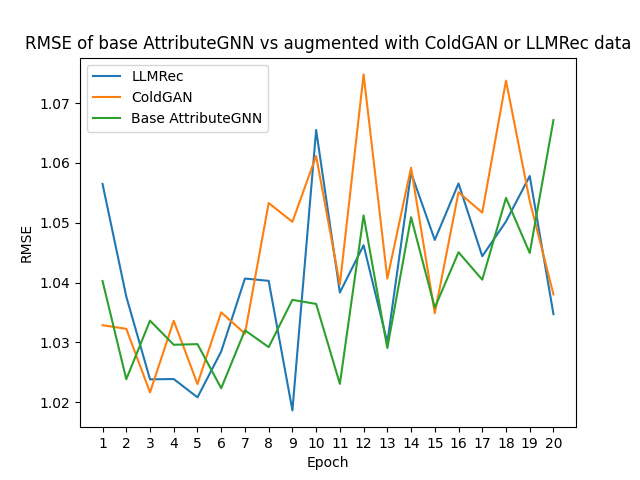
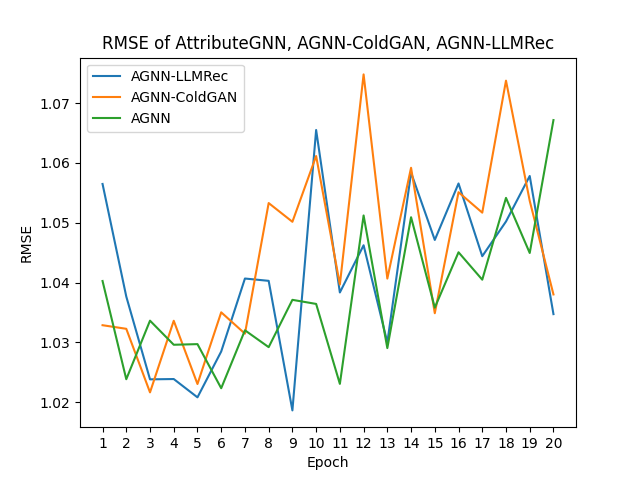
results: use only RMSE plot

Changed region(s): [[0.0312, 0.0625, 1.0, 0.2812]]

diff --git a/BestResults/find_best_results.py b/BestResults/find_best_results.py
@@ -1,6 +1,7 @@
 import heapq
 from os import listdir
 from os.path import isfile, join
+import matplotlib
 import matplotlib.pyplot as plt
 
 path = "../Results"
@@ -13,14 +14,10 @@ def parse_result(filename):
     lines = contents.split("\n")
     # format is: metric = value
     # rmse, mse, mae
-    rmse = lines[0].split("=")[1][1:]
-    mae = lines[2].split("=")[1][1:]
     # string is formatted as python list
-    rmse = eval(rmse)
-    mae = eval(mae)
-    min_rmse = min(rmse)
-    min_mae = min(mae)
-    return min_rmse, min_mae, rmse, mae
+    rmse = eval(lines[0].split("=")[1][1:])
+    mae = eval(lines[2].split("=")[1][1:])
+    return min(rmse), min(mae), rmse, mae
 
 
 # smallest_rmse, smallest_mae, smallest_result = -1, -1, ""
@@ -36,24 +33,15 @@ sorted_results = [heapq.heappop(results) for _ in range(len(results))]
 num_epochs = len(mae)
 rmse_results = [result[3] for result in sorted_results[:3]]
 mae_results = [result[4] for result in sorted_results[:3]]
-labels = ["LLMRec", "ColdGAN", "Base AttributeGNN"]
+labels = ["AGNN-LLMRec", "AGNN-ColdGAN", "AGNN"]
 for i, rmse in enumerate(rmse_results):
     plt.plot(range(1, num_epochs+1), rmse, label=labels[i])
 plt.xlabel("Epoch")
 plt.ylabel("RMSE")
-plt.title("RMSE of base AttributeGNN vs augmented with ColdGAN or LLMRec data")
+plt.title("RMSE of AttributeGNN, AGNN-ColdGAN, AGNN-LLMRec")
 plt.legend()
 # integer x label: https://stackoverflow.com/a/52229882/14842908
 plt.xticks(range(1, num_epochs+1))
+# increase resolution of figure: https://stackoverflow.com/a/51955985/14842908
+matplotlib.rcParams['figure.dpi'] = 600
 plt.savefig("best_rmse_results.png")
-plt.show()
-
-for i, mae in enumerate(mae_results):
-    plt.plot(range(1, num_epochs+1), mae, label=labels[i])
-plt.xlabel("Epoch")
-plt.ylabel("MAE")
-plt.title("MAE of base AttributeGNN vs augmented with ColdGAN or LLMRec data")
-plt.xticks(range(1, num_epochs+1))
-plt.legend()
-plt.savefig("best_mae_results.png")
-plt.show()
